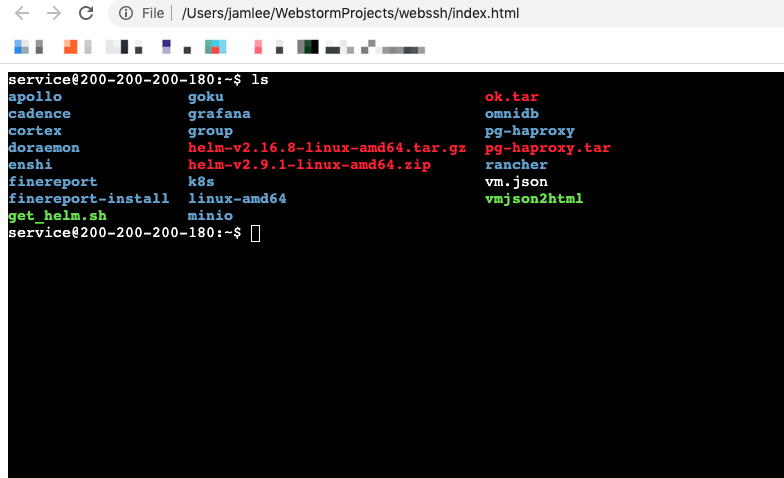
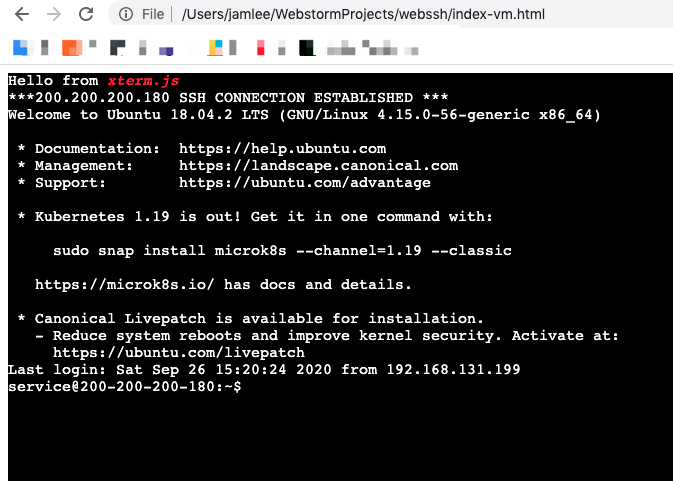
图片内容调整

diff --git a/README.md b/README.md
@@ -1,6 +1,6 @@
 # WEBSSH
 
-88 行代码完成一个简易的webssh，用于理解实现webssh原理。我们也可以基于该原理开发 Paas 平台功能。
+133 行代码完成一个简易的 webssh, 支持 k8s 和 vm ssh，用于理解实现webssh原理。我们也可以基于该原理开发 Paas 平台功能。
 
 ## 使用方式
 
